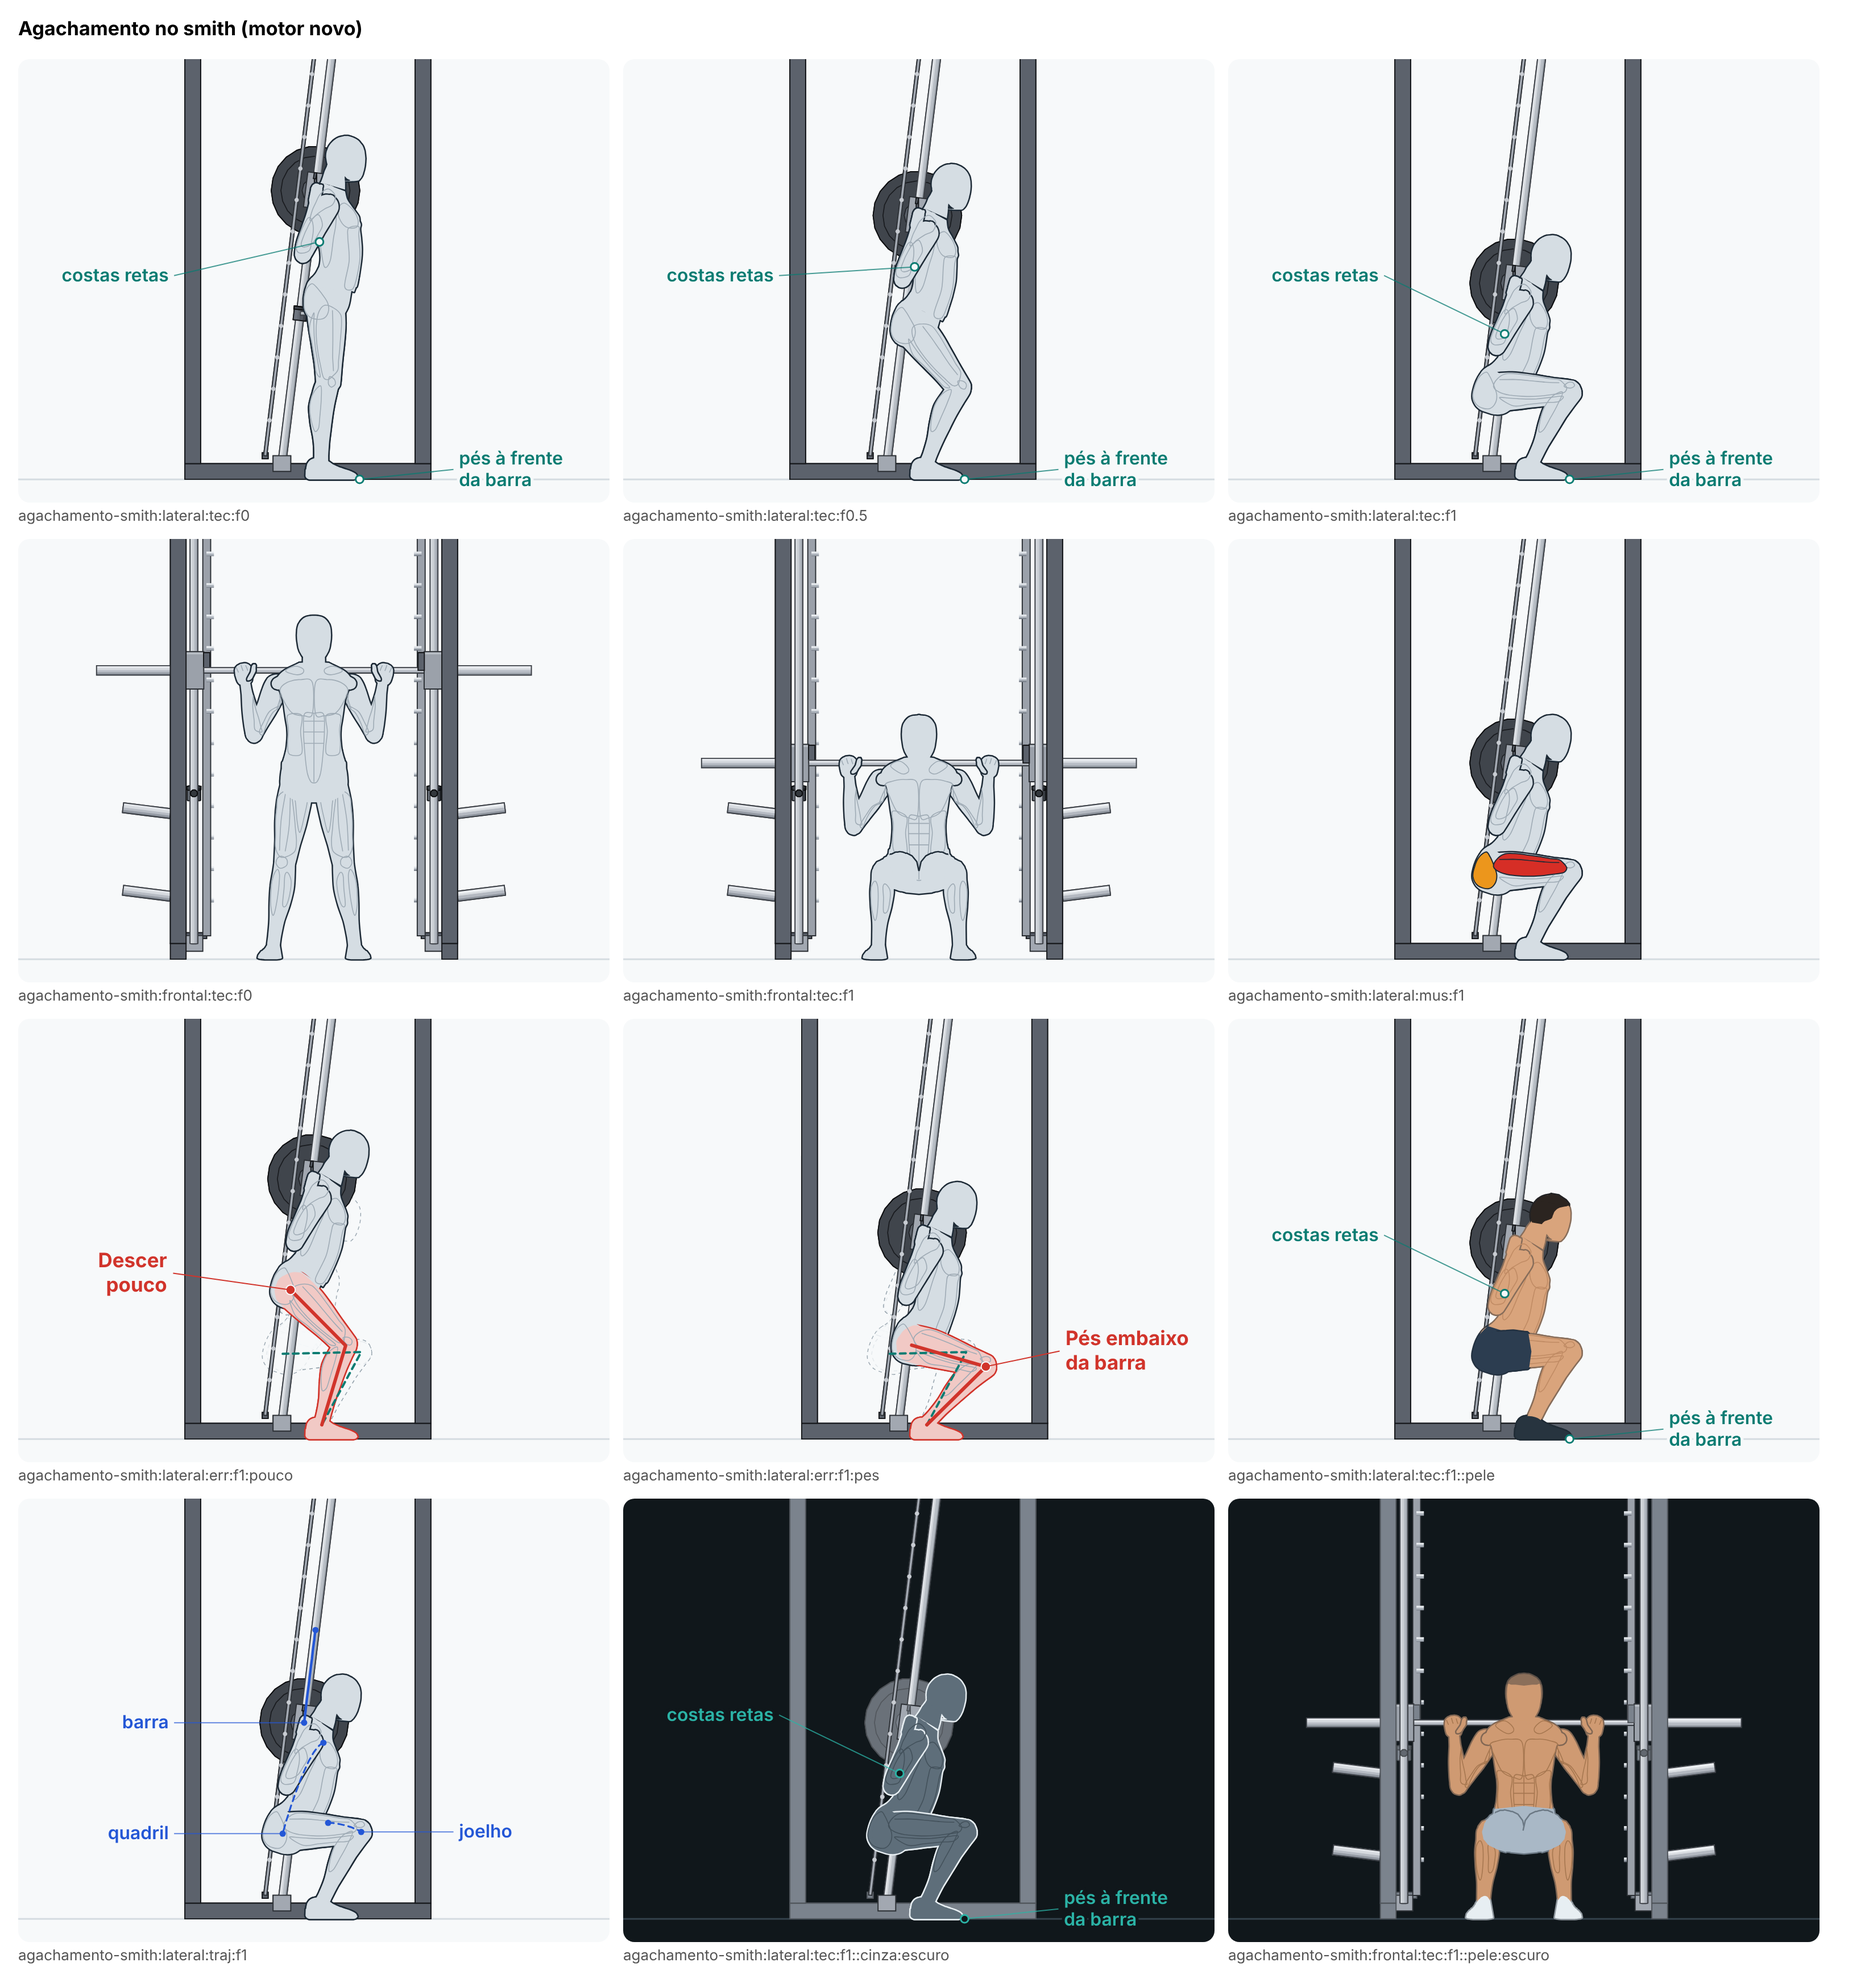
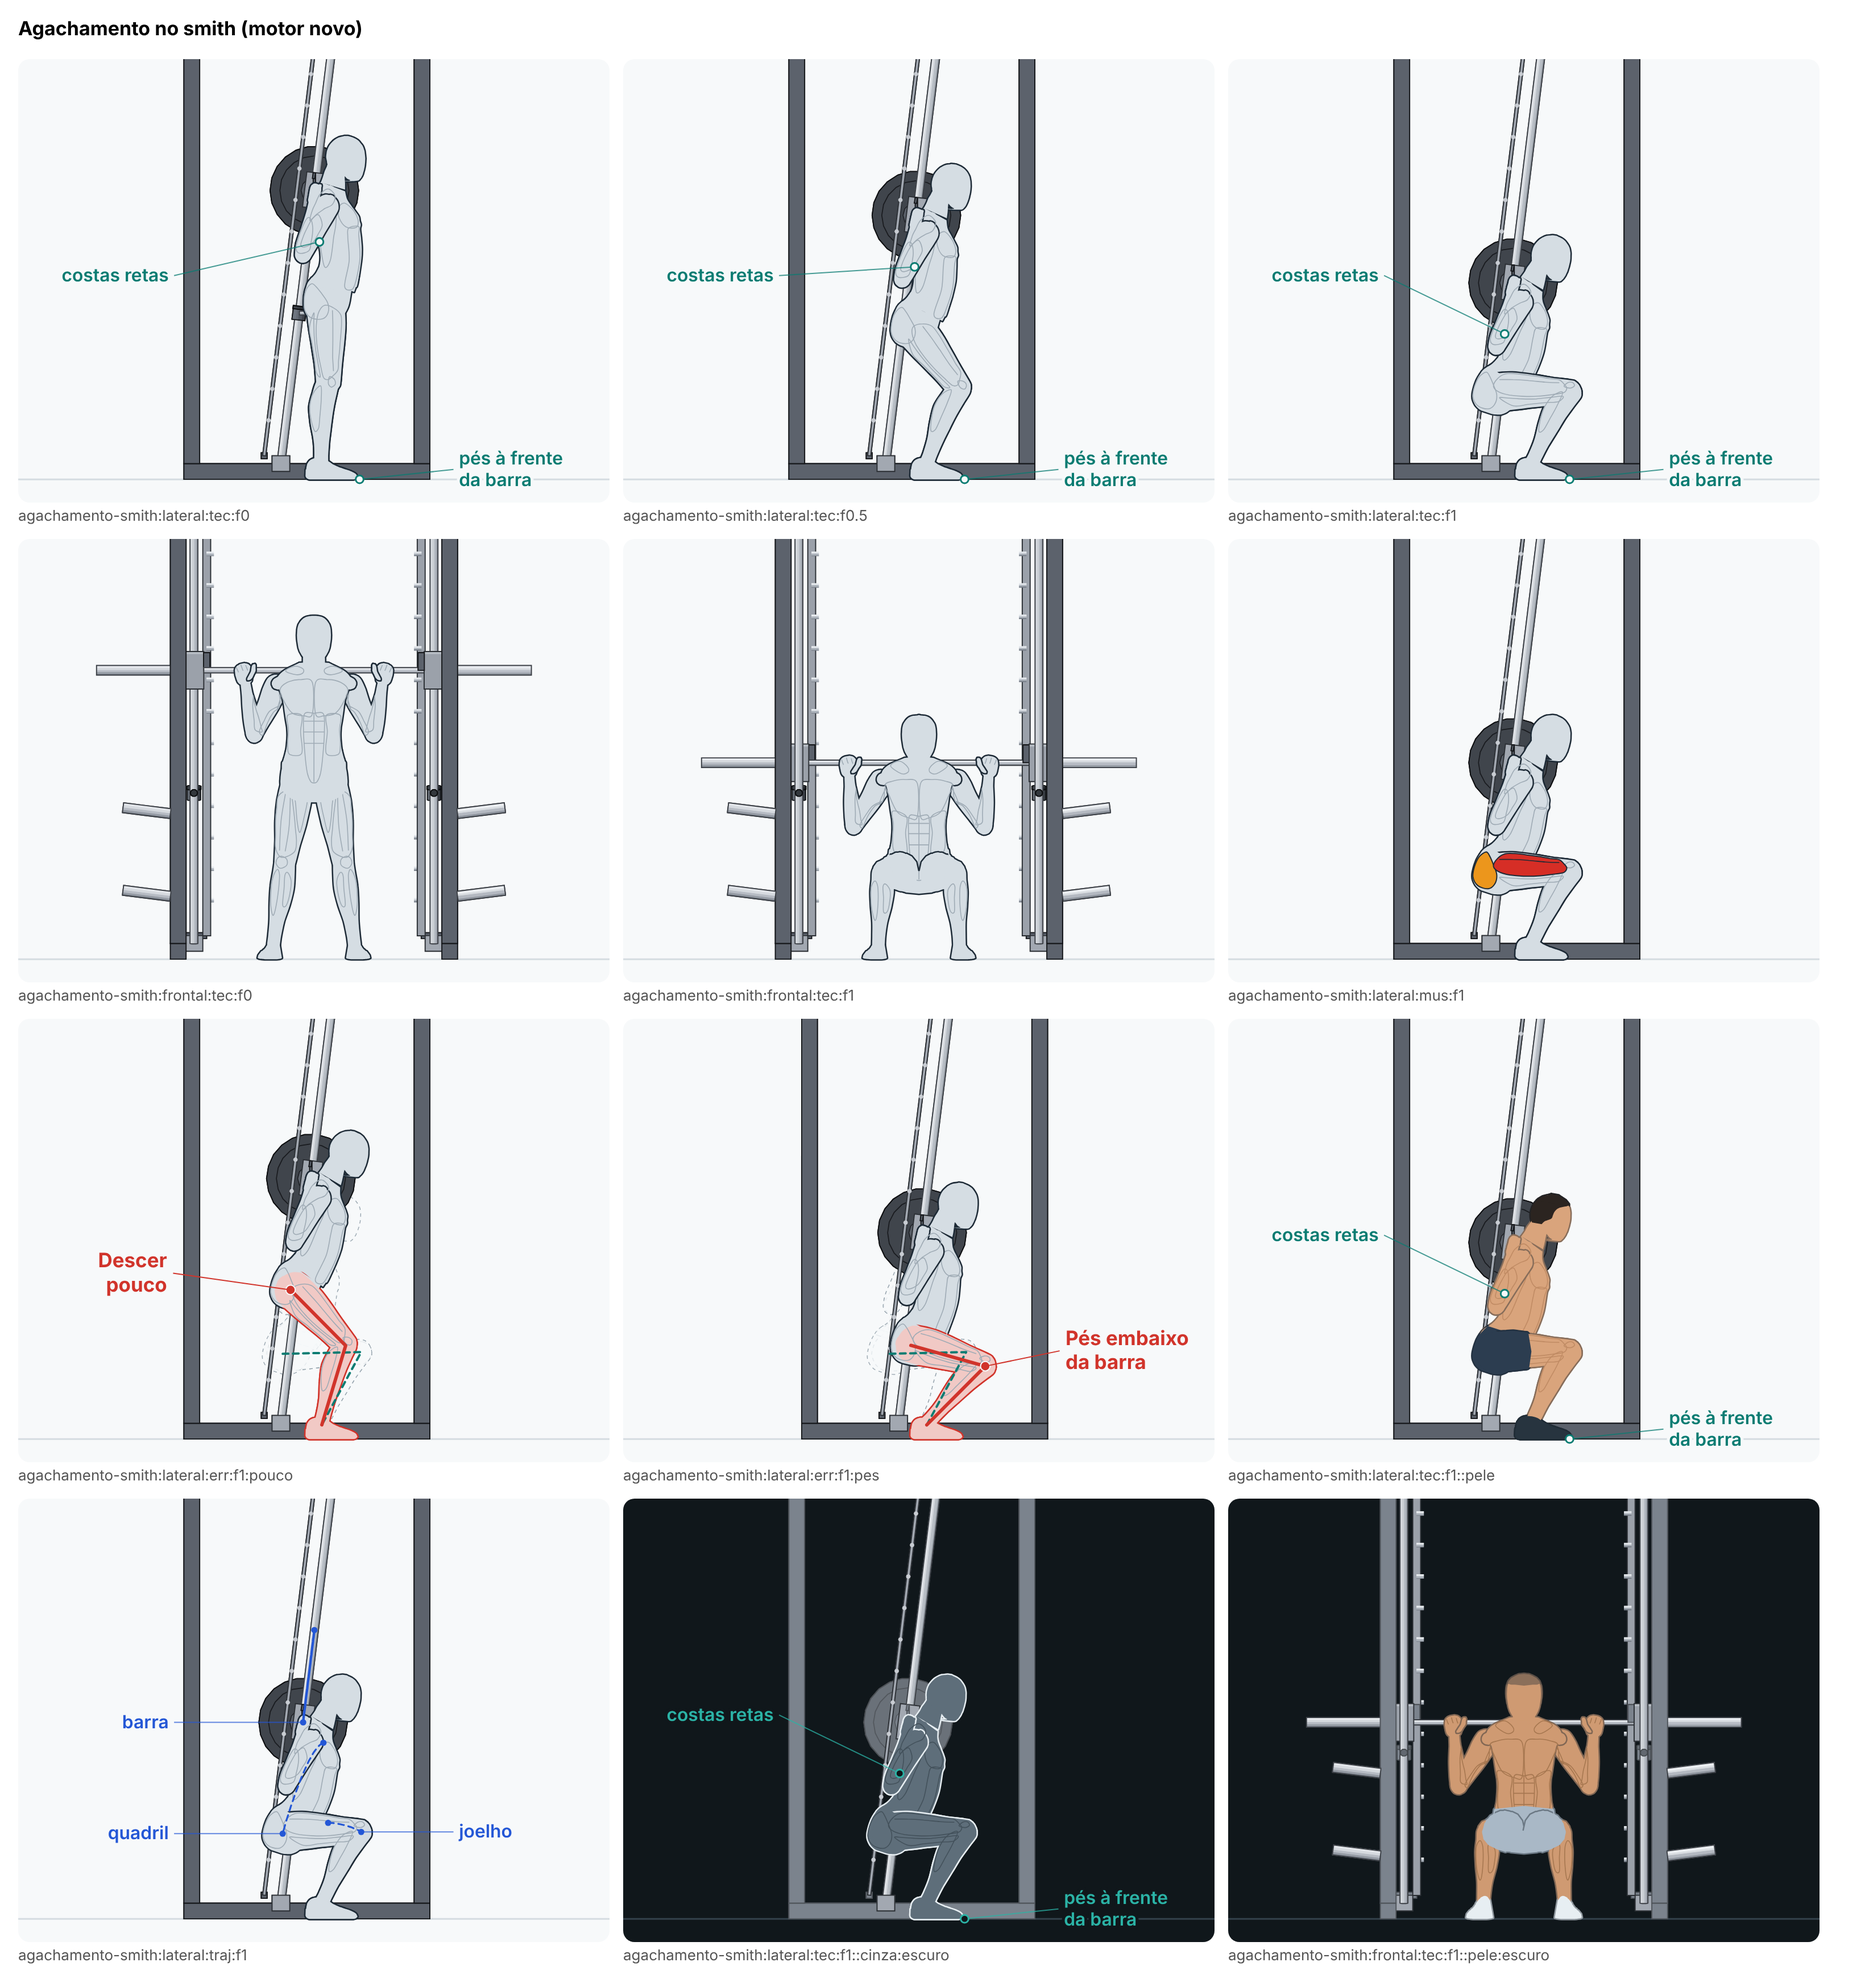
Encosta a barra do smith nas costas sem afundar no agachamento
A barra era posta 0,5 cm dentro da pele das costas e a conferência dos
pesos a media 1,4 cm dentro do tronco (tolerância de 1 cm). Agora ela
encosta a 0,05 cm da pele (barra.folga) e não entra; a máquina vai 0,55 cm
para trás com ela (pes.aFrente 6,55), para o corpo fazer o mesmo movimento,
e o quadro continua medindo a máquina onde ela ficava (quadro.pesAFrente),
para o rótulo das costas não trocar de lado. A ficha liga
peso-fora-do-corpo (antes: 0,8 cm; agora: 0).

Claude-Session: https://claude.ai/code/session_01YRzts8DBGbsca9onebcMt1

diff --git a/src/engine/novo/exercicios/agachamento-smith.ts b/src/engine/novo/exercicios/agachamento-smith.ts
@@ -69,8 +69,11 @@ export function costasNaBarra(corpo: Corpo): number {
   });
 }
 
-/** O centro da barra no referencial do tórax: no alto das costas, encostada na pele. */
-const barraNoTorax = (corpo: Corpo): V3 => [0, -f('barra.abaixoDeC7'), costasNaBarra(corpo) - raioDaBarraDoSmith() + f('barra.amassa')];
+/**
+ * O centro da barra no referencial do tórax: no alto das costas, encostada na pele, sem afundar (`barra.folga`).
+ * Correção de 20/11/2026: ela afundava 0,5 cm e a conferência dos pesos a media 1,4 cm dentro do tronco.
+ */
+const barraNoTorax = (corpo: Corpo): V3 => [0, -f('barra.abaixoDeC7'), costasNaBarra(corpo) - raioDaBarraDoSmith() - f('barra.folga')];
 
 /** O ponto do chão sob a bola de cada pé e a direção dos dedos (s = −1 direita, +1 esquerda), como em ./agachar.ts. */
 function pes(corpo: Corpo) {
@@ -159,7 +162,9 @@ function quadro(corpo: Corpo, u: number, erro?: string): Quadro {
     atras: -1,
     anilhas: ANILHAS,
     // o quadro mostra a máquina inteira de frente para o fundo e de um lado ao outro, cortada um pouco acima da cabeça
-    noQuadro: cantosDoSmith({ base, sobePara: 1 }, f('quadro.ate')),
+    // (no movimento certo, onde a máquina ficava antes da correção de 20/11/2026, `quadro.pesAFrente`: o quadro e os
+    // rótulos não mudam)
+    noQuadro: cantosDoSmith({ base: erro === 'pes' ? base : baseDaGuia(corpo, f('quadro.pesAFrente')), sobePara: 1 }, f('quadro.ate')),
   });
   return {
     esq: r.e,

diff --git a/docs/revisoes/animacao-nova/lote-B2/agachamento-smith.md b/docs/revisoes/animacao-nova/lote-B2/agachamento-smith.md
@@ -73,3 +73,30 @@ Nenhuma registrada para este exercício em `correcoes-ja-feitas.md` (ele nunca t
 - **O fio de "costas retas"** atravessa o braço embaixo (o braço fica atrás das costas, segurando a barra).
 - **O erro dos pés** mostra o joelho e a canela no quadro parado; o tronco que "tomba" só se vê em movimento (ver acima).
 - **O centro de massa embaixo fica a 1,3 cm da borda do calcanhar.** É a leitura de quem encosta na barra; a conferência só exige que fique sobre o apoio. Se o Gustavo preferir o peso no meio do pé, o tronco fica em pé o tempo todo (1° a 3°) e o joelho passa 15 cm da ponta do pé (testei com os pés 6 cm à frente: parece um agachamento frontal, não um smith com os pés à frente).
+
+## Correção de 20/11 (fio ou peso dentro do corpo)
+
+A conferência dos pesos (`conferir-pintura.ts`, tolerância de 1 cm) acusava **a barra do smith 1,4 cm dentro do tronco**, no ciclo inteiro e nos dois erros (pior em u = 0,69). O apoio da barra no trapézio é contato pedido pela técnica; o que passava da conta era o quanto ela afundava.
+
+**A causa, medida.** A barra era posta 0,5 cm dentro da pele das costas (`barra.amassa`), de propósito ("ela apoia, não flutua"). Contra a pele desenhada (a pele densa, o casco que o desenho liga de um anel ao outro), ela afundava mesmo 0,5 cm; a conferência dos pesos mede cada ponto da barra contra a seção oval de cada anel e, nas costas, onde a seção é muito achatada (1,8 cm para trás e 15 cm para o lado), lia 1,3 a 1,4 cm. A regra `peso-fora-do-corpo` (tolerância 0,5 cm) lia 0,8 cm. Com a barra encostada em 0 cm, a conferência dos pesos já passava (0 cm), mas a regra ainda lia 0,6 cm: ela procura a borda da seção de 5 em 5 graus e, numa elipse tão achatada, um ponto que entra meio milímetro nela conta perto de 0,6 cm. Com a barra a 0,05 cm da pele, ela lê 0.
+
+**A mudança.**
+
+- A barra encosta nas costas sem afundar: a superfície dela fica a 0,05 cm da pele desenhada (`barra.folga`, no lugar de `barra.amassa`), 0,55 cm mais para trás no corpo. Na tela, continua encostada (meio milímetro é menos que o traço do contorno).
+- Para o corpo fazer o mesmo movimento, a máquina vai junto com a barra: os pés ficam 6,55 cm à frente da linha da barra em cima (`pes.aFrente`, eram 6). Sem isso, a barra na guia empurrava o quadril 0,55 cm para a frente e o tornozelo dobrava 0,6° a mais. No movimento certo, o quadril, os joelhos, o tronco e os tornozelos ficam iguais (a diferença é menor que 0,02 cm e 0,02°); só as mãos, que seguram a barra, vão 0,55 cm para trás com ela (cotovelo 143,4°, eram 143,8°).
+- O quadro mede a máquina onde ela ficava (`quadro.pesAFrente`, 6 cm): com o quadro 0,55 cm maior, o rótulo "costas retas" pulava para o outro lado do corpo. O quadro, a miniatura e os rótulos ficam como estavam (o preparo só muda na altura do fundo, que as travas usam).
+- No erro "Pés embaixo da barra", a máquina continua com a linha da barra no meio do pé; como a barra fica 0,55 cm mais para trás no corpo, o equilíbrio põe o tronco um pouco mais inclinado: 17,4° em pé (eram 16,5°) e 14,6° embaixo (eram 13,7°); o joelho passa 0,2 cm menos da ponta do pé. O erro se lê igual.
+
+| medido (homem) | antes | depois |
+|---|---|---|
+| a barra dentro do tronco, conferência dos pesos (pior em u = 0,69) | 1,4 cm | 0 cm (nada além da tolerância) |
+| a barra dentro do tronco, regra `peso-fora-do-corpo` | 0,8 cm | 0 cm |
+| a superfície da barra até a pele das costas (`barra-no-alto-das-costas`) | −0,5 cm | 0 cm |
+| o meio do pé à frente da barra, em cima e embaixo | 6,1 e 11,9 cm | 6,6 e 12,4 cm |
+| as travas abaixo do ponto mais baixo da barra | 3 cm | 3 cm |
+| dorsiflexão do tornozelo (máximo) | 29,4° | 29,4° |
+
+A ficha liga `peso-fora-do-corpo`: no estado de antes ela falha (0,8 cm, no tronco, no erro "Descer pouco"); no de agora, passa (em 193 quadros, o peso não entra no corpo). O antes e depois está em `../correcao-das-antigas/agachamento-smith-fio-ou-peso.png`; os quadros grandes foram regravados e olhados vista por vista, de lado e de frente, nos dois erros e nos dois lados do corpo. A conferência automática dá **0 falha e 3 avisos** (antes: 1 falha, a dos pesos, e 3 avisos); a pintura continua sem achado.
+
+**O que ainda não ficou bom.**
+- A regra `peso-fora-do-corpo` mede mal uma seção muito achatada (a borda de 5 em 5 graus): um ponto que mal entra nas costas conta como 0,6 cm. Não mexi na regra, que é comum a todas as animações; por isso a barra fica a 0,05 cm da pele, e não em 0.
